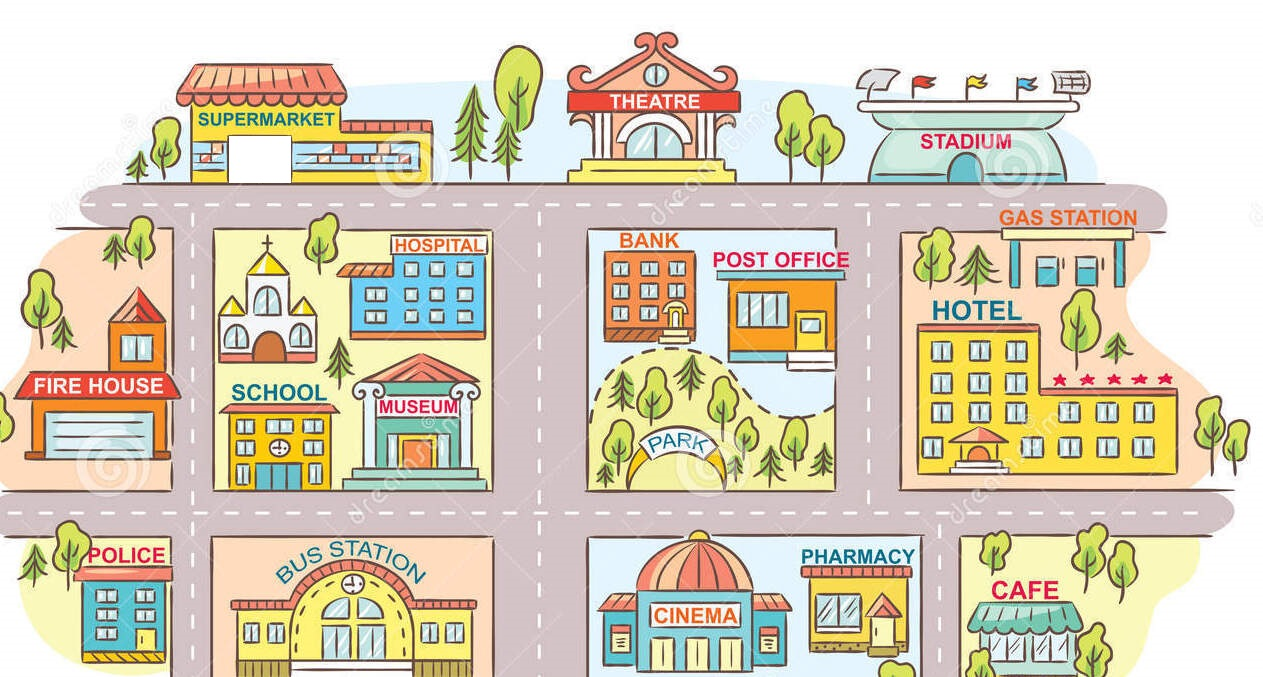
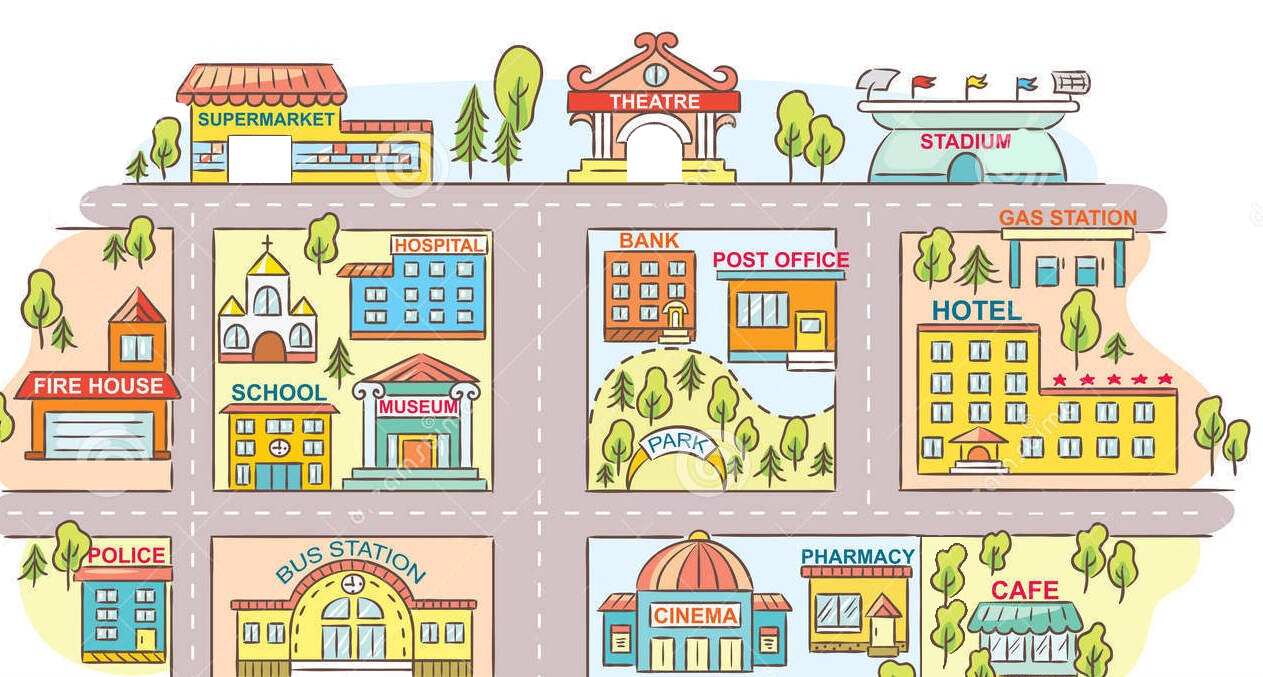
add roads part, add teater , and also doors animation

diff --git a/pixijs/index.js b/pixijs/index.js
@@ -1,5 +1,5 @@
 const app = new PIXI.Application({
-    width: 1200, height: 670, backgroundColor: 0x1099bb, resolution: window.devicePixelRatio/1.1 || 1,
+    width: 1200, height: 670, backgroundColor: 0x1099bb, resolution: window.devicePixelRatio/1.5 || 1,
 });
 
 document.body.appendChild(app.view);
@@ -7,22 +7,43 @@ const sprite = new PIXI.Sprite.from('assets/map1.png');
 sprite.interactive = true;
 sprite.buttonMode = true;
 app.stage.addChild(sprite);
+
 //---------------------- player  --------------------------------
+
 let mask = new PIXI.Graphics();
 mask.beginFill(0xffffff);
 mask.interactive = true;
 mask.drawRect(110, 0, 63, 100);
 mask.endFill();
-//-------------------- supermarkec ---------------------------
-let supermarkec1 = new PIXI.Graphics();
-supermarkec1.lineStyle({ color: 0xffffff, width: 4, alignment: 0 });
-supermarkec1.drawRect(224, 130, 35, 60);//x,y,width,height
 
-let supermarkec2 = new PIXI.Graphics();
-supermarkec2.lineStyle({ color: 0xffffff, width: 4, alignment: 0 });
-supermarkec2.drawRect(259, 130, 35, 60);//x,y,width,height
-supermarkec1.endFill();
-supermarkec2.endFill();
+//-------------------------  Theatere  ------------------------------
+
+    const teatr_dor1 = new PIXI.Sprite.from('./assets/teatr_door1.png');
+    const teatr_dor2 = new PIXI.Sprite.from('./assets/teatr_door2.png');
+    const container_teatr1 =  new PIXI.Container();
+    const container_teatr2 =  new PIXI.Container();
+    container_teatr1.addChild(teatr_dor1);
+    container_teatr2.addChild(teatr_dor2);
+    app.stage.addChild(container_teatr1,container_teatr2)
+    container_teatr2.x = 654;
+    container_teatr2.y = 120;
+    container_teatr1.x = 625;
+    container_teatr1.y = 120;
+
+
+//-------------------- Teatr ---------------------------
+
+    let theater_conteiner = new PIXI.Container();
+    theater_conteiner.position.set(550, 28);
+    const inside_the_theater_image = new PIXI.Sprite.from('assets/teatr.png');
+
+    theater_conteiner.addChild(inside_the_theater_image);
+    app.stage.addChild(theater_conteiner);
+    theater_conteiner.width = theater_conteiner.width * 0.27;
+    theater_conteiner.height = theater_conteiner.height * 0.31;
+
+    app.stage.removeChild(theater_conteiner);
+//-----------------------------------------------------------------------
 
 const superrot1 = new PIXI.Sprite.from('./assets/supermarket1.png');
 const superrot2 = new PIXI.Sprite.from('./assets/supermarket2.png');
@@ -35,32 +56,34 @@ container_super2.x = 259;
 container_super2.y = 137;
 container_super1.x = 230;
 container_super1.y = 137;
-//-------------------------------------------------------
 
-let maskContainer = new PIXI.Container();
-maskContainer.mask = mask;
-maskContainer.addChild(mask);
-let {x,y} = maskContainer.position.set(50,120);
+//--------------------------    player    -----------------------------
+let player = new PIXI.Container();
+player.mask = mask;
+player.addChild(mask);
+// let {x, y} = player.position.set(80, 140);
+let {x, y} = player.position.set(10, 140);
 const bunny = new PIXI.Sprite.from('assets/player.png');
-maskContainer.addChild(bunny);
-app.stage.addChild(maskContainer);
+player.addChild(bunny);
+app.stage.addChild(player);
 // bunny.anchor.x = 0.25;// 0.22 5  
 // bunny.anchor.y = 0.0;
 // bunny.x = 0;
 // bunny.y = 0;
-maskContainer.width = maskContainer.width *0.6;
+player.width = player.width * 0.6;
+player.height = player.height * 0.7;
 let xevnt = bunny.anchor.x;
-//-------------------------------------------------------
-const eventa = (a,b,...c)=>{
+//------------------------ Player walking -------------------------------
+const eventa = (a, b, ...c) => {
     setTimeout(() => {
         if(bunny.anchor.x >= 0.48)
         {
             xevnt = bunny.anchor.x;
             bunny.anchor.x += -c[0];
-        }else if(bunny.anchor.x >= 0.24 && xevnt >= 0.48 ){
+        } else if(bunny.anchor.x >= 0.24 && xevnt >= 0.48 ){
             xevnt = bunny.anchor.x;
             bunny.anchor.x += -c[0];
-        }else {
+        } else {
             xevnt = bunny.anchor.x;
             bunny.anchor.x += c[0];
         }
@@ -68,38 +91,79 @@ const eventa = (a,b,...c)=>{
         bunny.anchor.y = 0;
         bunny.x = c[2];
         bunny.y = c[3];
-        maskContainer.position.set(a,b);//x,y
+        player.position.set(a,b);//x,y
     }, 400);
     return xevnt;
 }
 
 const steps = (...kod)=>{
-    eventa(...kod,xevnt);
+    eventa(...kod, xevnt);
 }
 
-const onKeyDown = (e)=>{
-    if(e.keyCode === 87 || e.keyCode === 38)//
+function where_are_player()
+{
+    if (x > 150 && x < 210 && y < 140 && y > 70)
+        func_supermarket();
+    else if (x > 530 && x < 595 && y < 140 && y > 70)
+        func_teatr();
+    else if (y < 135)
+        y += 5;
+    else if ((y >= 160 && y <= 165) && (!(x > 95 && x < 130 ) && !(x > 420 && x < 495) && !(x > 760 && x < 810)))
+        y -= 5;
+    else if (x > 1115)
+        x = -85;
+    else if (x < -85)
+        x = 1115;
+    else if ((y >= 425 && y <= 430) && (!(x > 95 && x < 130 ) && !(x > 420 && x < 495) && !(x > 760 && x < 810)))
+        y += 5;
+    else if ((y >= 470 && y <= 475) && (!(x > 95 && x < 130 ) && !(x > 420 && x < 495) && !(x > 760 && x < 810)))
+        y -= 5;
+    else if ((x >= 90 && x <= 95) && ((y < 425 && y > 160 ) || (y < 610 && y > 470 )))
+        x += 5;
+    else if ((x >= 110 && x <= 115) && ((y < 425 && y > 160 ) || (y < 610 && y > 470 )))
+        x -= 5;
+    else if ((x >= 410 && x <= 415) && ((y < 425 && y > 160 ) || (y < 610 && y > 470 )))
+        x += 5;
+    else if ((x >= 480 && x <= 485) && ((y < 425 && y > 160 ) || (y < 610 && y > 470 )))
+        x -= 5;
+    else if ((x >= 760 && x <= 765) && (y < 425 && y > 160 ))
+        x += 5;
+    else if ((x >= 805 && x <= 805) && (y < 425 && y > 160 ))
+        x -= 5;
+    else if ((x >= 710 && x <= 895) && (y > 460 ))
+        y -= 5;
+    else if (y > 600)
+        y -= 5;
+    else
+        all_dor_close();
+}
+
+function when_in_the_building()
+{
+    if (x > 150 && x < 210 && y < 120)
+        app.stage.addChild(theater_conteiner);
+    else 
+        app.stage.removeChild(theater_conteiner);
+}
+
+const onKeyDown = (e) => {
+    console.log(x, y);
+    if (e.keyCode === 87 || e.keyCode === 38)//
     {
         steps(x, y-=5, 0.24, 0, 0, -330);
-
-    }else if (e.keyCode === 83 || e.keyCode === 40){//down----------
-
-        steps(x,y+=5,0.24, 0, 0, 0);
-    }else if (e.keyCode === 68 || e.keyCode === 39){//right---------
-
-        steps(x+=5,y, 0.24, 0, 15, -225);//93 + 150 +124, 110+110, 65, 100);
-        
-    }else if (e.keyCode === 65 || e.keyCode === 37){//left ---------
-
-        steps(x-=5, y,0.24, 0, -6, -110);//116+130+150, 110, 65, 100)
-
-    }else if (e.keyCode === 27){
+    } else if (e.keyCode === 83 || e.keyCode === 40){//down---------
+        steps(x, y+=5, 0.24, 0, 0, 0);
+    } else if (e.keyCode === 68 || e.keyCode === 39){//right--------
+        steps(x+=5,y, 0.24, 0, 15, -225);//93 + 150 + 124, 110+110, 65, 100);
+    } else if (e.keyCode === 65 || e.keyCode === 37){//left ---------
+        steps(x-=5, y, 0.24, 0, -6, -110);//116+130+150, 110, 65, 100)
+    } else if (e.keyCode === 27)
         return;
-    }
-    funcsuper();
+    where_are_player();
+    when_in_the_building();
 }
 
-sprite.on('pointerdown', (evnt)=>
+sprite.on('pointerdown', (evnt) =>
 {
     document.addEventListener('keydown', onKeyDown);
     sprite.on('pointerout', (event) => {
@@ -107,21 +171,34 @@ sprite.on('pointerdown', (evnt)=>
         return ;
     });
 });
+//-----------------------------------  door ------------------------------
 function opendor(func){
     setTimeout(()=>{
         func();
-    },200);
+    }, 500);
 }
-function funcsuper(){
-   const {x,y} = maskContainer.position;
-   if (x > 160 && x < 190 && y < 115 && y > 70){
+
+function func_supermarket(){
     opendor(()=>{
-        console.log('Cliced',container_super2.localTransform);
+        // console.log('Cliced',container_super2.localTransform);
         container_super2.x = 289;
         container_super1.x = 200;
     })
-   }else{
+}
+
+function func_teatr(){
+    opendor(()=>{
+        // console.log('Cliced',container_super2.localTransform);
+        container_teatr2.x = 680;
+        container_teatr1.x = 600;
+    })
+}
+
+function all_dor_close()
+{
     container_super2.x = 259;
     container_super1.x = 230;
-   }
+    container_teatr2.x = 654;
+    container_teatr1.x = 625;
 }
+//------------------------------------------------------------------------
